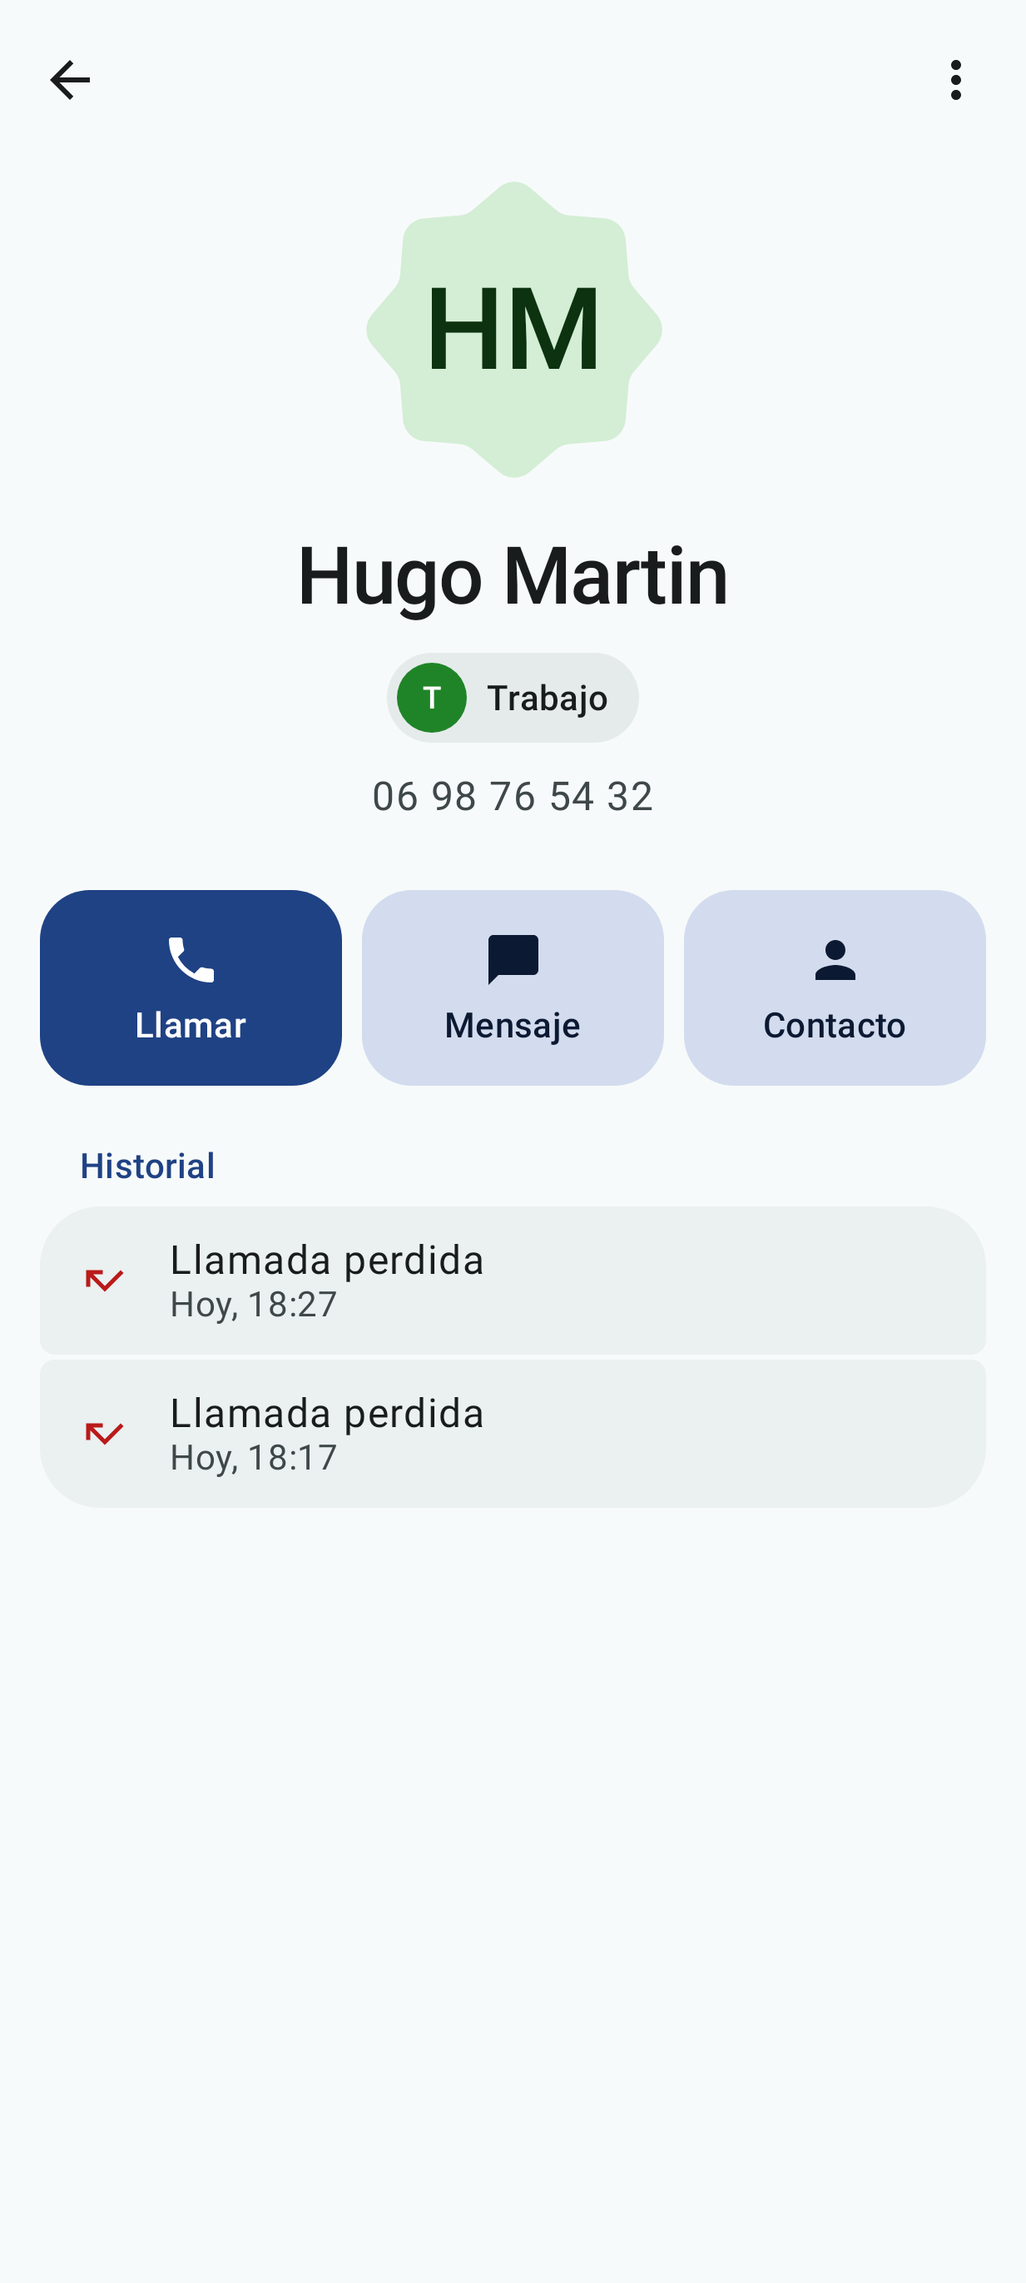
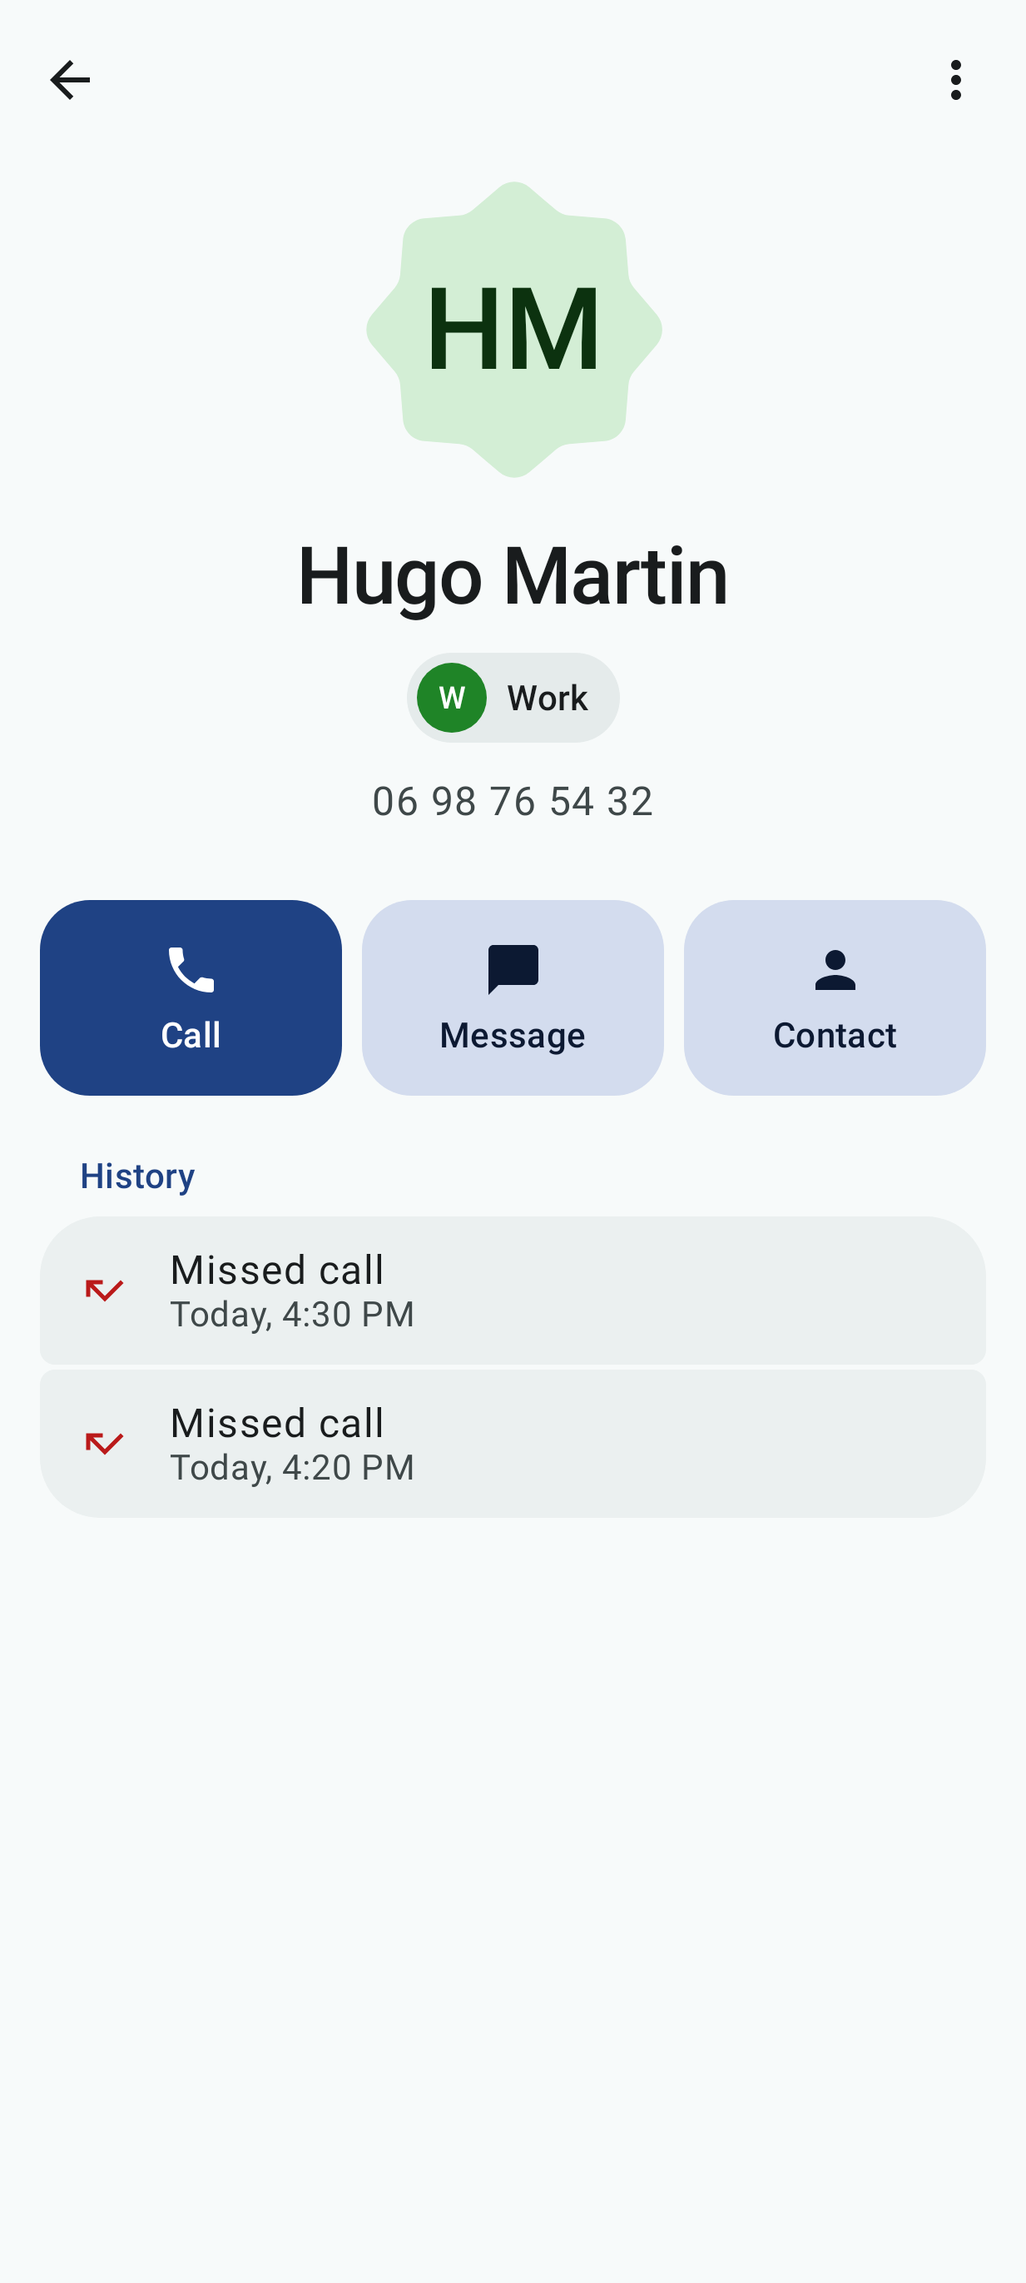
docs: what F-Droid actually carries, and screens in one language
The README said Seca Messages was not on F-Droid. It has been since
0.1.0-beta10, along with the other two, and the page that was meant to
say so was itself a month out of date: a merge request described as
reopened was merged, a reproducibility hash was from beta 6, and a
section listing what the second review still needed listed three things
that were all answered. The recipes under fdroid/metadata/ are now
copies of what fdroiddata carries rather than a snapshot from beta 9.

The reproducibility claim is checked again rather than repeated: all
three APKs f-droid.org serves for beta 10 hash the same as the ones
attached here, and the three hashes are written down.

The screenshots were drawn in Spanish, on an older settings page. Drawn
again in English, and the sample profiles stop being keyed by French
words, which is also why one image had a French name.

Beta 11 was tagged seventeen hours before its APKs went up and F-Droid's
build landed in that gap, so the order is written down: binaries first,
tag after.

Also: the keyboard's GIF key does nothing in a conversation, which is
#54 and the README now says so rather than leaving "GIFs that move" to
be read as more than it is.

diff --git a/apps/contacts/src/test/kotlin/com/seca/contacts/ScreenshotsTest.kt b/apps/contacts/src/test/kotlin/com/seca/contacts/ScreenshotsTest.kt
@@ -73,8 +73,8 @@ class ScreenshotsTest {
     }
 
     @Test
-    fun homeProfile() = shoot("contacts-home-famille") {
-        HomeScreen(sampleUi().copy(currentProfileId = "famille"), viewModel(), rememberLazyListState(), onOpenSibling = {})
+    fun homeProfile() = shoot("contacts-home-family") {
+        HomeScreen(sampleUi().copy(currentProfileId = "family"), viewModel(), rememberLazyListState(), onOpenSibling = {})
     }
 
     /** The launcher icon at the size app stores ask for. */
@@ -108,10 +108,10 @@ class ScreenshotsTest {
 
     private fun sampleUi(): ContactsUi {
         val names = listOf(
-            "Alice Garnier" to "principal", "Antoine Roux" to "travail", "Camille Durand" to "famille",
-            "Chloé Fontaine" to "sport", "Élodie Mercier" to "principal", "Hugo Martin" to "travail",
-            "Inès Moreau" to "travail", "Julien Lambert" to "sport", "Léa Petit" to "famille",
-            "Lucas Girard" to "principal", "Manon Chevalier" to "famille", "Nicolas Bernard" to "principal",
+            "Alice Garnier" to "principal", "Antoine Roux" to "work", "Camille Durand" to "family",
+            "Chloé Fontaine" to "sport", "Élodie Mercier" to "principal", "Hugo Martin" to "work",
+            "Inès Moreau" to "work", "Julien Lambert" to "sport", "Léa Petit" to "family",
+            "Lucas Girard" to "principal", "Manon Chevalier" to "family", "Nicolas Bernard" to "principal",
         )
         val contacts = names.mapIndexed { index, (name, _) ->
             SecaContact(
@@ -129,8 +129,8 @@ class ScreenshotsTest {
             contacts = contacts,
             profiles = listOf(
                 ProfileStore.Principal,
-                sampleProfile("famille"),
-                sampleProfile("travail"),
+                sampleProfile("family"),
+                sampleProfile("work"),
                 sampleProfile("sport"),
             ),
             currentProfileId = ProfileStore.ALL,
@@ -148,9 +148,10 @@ class ScreenshotsTest {
 internal fun sampleProfile(key: String): Profile = Profile(
     key,
     when (Locale.getDefault().language) {
-        "fr" -> mapOf("famille" to "Famille", "travail" to "Travail", "sport" to "Sport")
-        "es" -> mapOf("famille" to "Familia", "travail" to "Trabajo", "sport" to "Deporte")
-        "pl" -> mapOf("famille" to "Rodzina", "travail" to "Praca", "sport" to "Sport")
-        else -> mapOf("famille" to "Family", "travail" to "Work", "sport" to "Sport")
+        "fr" -> mapOf("family" to "Famille", "work" to "Travail", "sport" to "Sport")
+        "es" -> mapOf("family" to "Familia", "work" to "Trabajo", "sport" to "Deporte")
+        "pl" -> mapOf("family" to "Rodzina", "work" to "Praca", "sport" to "Sport")
+        "de" -> mapOf("family" to "Familie", "work" to "Arbeit", "sport" to "Sport")
+        else -> mapOf("family" to "Family", "work" to "Work", "sport" to "Sport")
     }.getValue(key),
 )

diff --git a/apps/phone/src/test/kotlin/com/seca/phone/ScreenshotsTest.kt b/apps/phone/src/test/kotlin/com/seca/phone/ScreenshotsTest.kt
@@ -124,8 +124,8 @@ class ScreenshotsTest {
     private fun sampleUi(): PhoneUi {
         val numbers = PhoneNumbers("FR")
         val profiles = SharedProfiles(
-            profiles = listOf(Profile.Principal, sampleProfile("famille"), sampleProfile("travail")),
-            assignments = mapOf("camille" to "famille", "lea" to "famille", "hugo" to "travail", "ines" to "travail"),
+            profiles = listOf(Profile.Principal, sampleProfile("family"), sampleProfile("work")),
+            assignments = mapOf("camille" to "family", "lea" to "family", "hugo" to "work", "ines" to "work"),
             connected = true,
         )
         val contacts = listOf(
@@ -156,7 +156,7 @@ class ScreenshotsTest {
             contacts = contacts,
             index = NumberIndex(contacts, numbers),
             profiles = profiles,
-            blockedProfiles = setOf("travail"),
+            blockedProfiles = setOf("work"),
         )
         val keyOf = { call: CallRecord -> if (call.presentation == Presentation.Allowed) numbers.key(call.number) else "hidden" }
         val groups = groupCalls(calls, keyOf, dayOf = { dayOf(it) }).map { CallGroup(it, base.matchOf(it.first())) }
@@ -173,9 +173,10 @@ class ScreenshotsTest {
 internal fun sampleProfile(key: String): Profile = Profile(
     key,
     when (Locale.getDefault().language) {
-        "fr" -> mapOf("famille" to "Famille", "travail" to "Travail", "sport" to "Sport")
-        "es" -> mapOf("famille" to "Familia", "travail" to "Trabajo", "sport" to "Deporte")
-        "pl" -> mapOf("famille" to "Rodzina", "travail" to "Praca", "sport" to "Sport")
-        else -> mapOf("famille" to "Family", "travail" to "Work", "sport" to "Sport")
+        "fr" -> mapOf("family" to "Famille", "work" to "Travail", "sport" to "Sport")
+        "es" -> mapOf("family" to "Familia", "work" to "Trabajo", "sport" to "Deporte")
+        "pl" -> mapOf("family" to "Rodzina", "work" to "Praca", "sport" to "Sport")
+        "de" -> mapOf("family" to "Familie", "work" to "Arbeit", "sport" to "Sport")
+        else -> mapOf("family" to "Family", "work" to "Work", "sport" to "Sport")
     }.getValue(key),
 )

diff --git a/apps/messages/src/test/kotlin/com/seca/messages/ScreenshotsTest.kt b/apps/messages/src/test/kotlin/com/seca/messages/ScreenshotsTest.kt
@@ -137,8 +137,8 @@ class ScreenshotsTest {
             contacts = contacts,
             index = NumberIndex(contacts, numbers),
             profiles = SharedProfiles(
-                profiles = listOf(Profile.Principal, sampleProfile("famille"), sampleProfile("travail")),
-                assignments = mapOf("camille" to "famille", "lea" to "famille", "hugo" to "travail"),
+                profiles = listOf(Profile.Principal, sampleProfile("family"), sampleProfile("work")),
+                assignments = mapOf("camille" to "family", "lea" to "family", "hugo" to "work"),
                 connected = true,
             ),
             conversations = listOf(
@@ -186,10 +186,11 @@ class ScreenshotsTest {
 internal fun sampleProfile(key: String): Profile = Profile(
     key,
     when (Locale.getDefault().language) {
-        "fr" -> mapOf("famille" to "Famille", "travail" to "Travail", "sport" to "Sport")
-        "es" -> mapOf("famille" to "Familia", "travail" to "Trabajo", "sport" to "Deporte")
-        "pl" -> mapOf("famille" to "Rodzina", "travail" to "Praca", "sport" to "Sport")
-        else -> mapOf("famille" to "Family", "travail" to "Work", "sport" to "Sport")
+        "fr" -> mapOf("family" to "Famille", "work" to "Travail", "sport" to "Sport")
+        "es" -> mapOf("family" to "Familia", "work" to "Trabajo", "sport" to "Deporte")
+        "pl" -> mapOf("family" to "Rodzina", "work" to "Praca", "sport" to "Sport")
+        "de" -> mapOf("family" to "Familie", "work" to "Arbeit", "sport" to "Sport")
+        else -> mapOf("family" to "Family", "work" to "Work", "sport" to "Sport")
     }.getValue(key),
 )
 

diff --git a/core/model/src/main/kotlin/com/seca/core/model/Profile.kt b/core/model/src/main/kotlin/com/seca/core/model/Profile.kt
@@ -1,6 +1,6 @@
 package com.seca.core.model
 
-/** A category of contacts, such as "Travail". Every contact belongs to exactly one. */
+/** A category of contacts, such as "Work". Every contact belongs to exactly one. */
 data class Profile(val id: String, val name: String) {
     companion object {
         /** Where contacts sit until they are put elsewhere; it cannot be renamed or deleted. */

diff --git a/docs/fdroid.md b/docs/fdroid.md
@@ -1,21 +1,31 @@
 # Publishing Seca on F-Droid
 
-Where each app stands, what this repository already satisfies, and the steps that need a
-person with an account somewhere.
+Where each app stands, what this repository has to keep satisfying for F-Droid to rebuild it,
+and what a new release has to do in what order.
 
 | App | F-Droid | IzzyOnDroid |
 |---|---|---|
-| Seca Contacts | **published**, reproducible: f-droid.org hands out the file published here | ready to request |
-| Seca Phone | **published**, reproducible | ready to request |
-| Seca Messages | merge request !49106 reopened at 0.1.0-beta8, with both native libraries built from source | ready to request |
+| Seca Contacts | **published** ([!49024](https://gitlab.com/fdroid/fdroiddata/-/merge_requests/49024)), reproducible | ready to request |
+| Seca Phone | **published** ([!49025](https://gitlab.com/fdroid/fdroiddata/-/merge_requests/49025)), reproducible | ready to request |
+| Seca Messages | **published** ([!49106](https://gitlab.com/fdroid/fdroiddata/-/merge_requests/49106)), reproducible, both native libraries built from source | ready to request |
 
-The reproducible build is not a claim: the APK f-droid.org serves for Seca Contacts has the
-same SHA-256 as the one attached to the GitHub release, `11f14bf8…` for 0.1.0-beta6. Their
-server rebuilt it, found the same bytes, and distributes ours with this project's signature.
+The reproducible build is not a claim. For 0.1.0-beta10, the APK f-droid.org serves has the
+same SHA-256 as the one attached to the GitHub release, for all three:
 
-Both published apps follow new tags by themselves (`AutoUpdateMode: Version`), so a release
-here reaches F-Droid without a merge request — as long as the APK published here stays
-reproducible, which means building it the way their server does. See below.
+```text
+46e0cdf43878edb8f0ce16a01f8acebd57bb2ead76dd68d64ef057fa8d190760  seca-contacts
+202f3e114bb13a9c6686e72aa89ca72d20368142ab4fa7c28ee0bf2485c9688d  seca-phone
+22cd33add05402d6f93c8af112586bb278080eb66e00a745e773f9e4b358baf9  seca-messages
+```
+
+Their server rebuilt each one, found the same bytes, and distributes ours with this project's
+signature.
+
+All three follow new tags by themselves (`AutoUpdateMode: Version`), so a release here reaches
+F-Droid without a merge request — as long as the APK published here stays reproducible, which
+means building it the way their server does. Their queue means F-Droid trails the release here
+by a few days, and `fdroid/metadata/` in this repository is a copy of what `fdroiddata` carries,
+not the other way round.
 
 ## Decisions taken
 
@@ -104,25 +114,26 @@ libraries for both ABIs, and F-Droid's own server rebuilt all three published AP
 them — `...successfully verified`. The whole procedure is: build in Linux, sign on Windows, attach
 to the GitHub release.
 
-## Seca Messages: the second review, and what it still needs
+## Seca Messages: what the second review asked for
 
 A second reviewer went through 0.1.0-beta6 in detail on 3 October, and the merge request was
-closed on 1 November for having had no answer in between. Reopening it needs three things, two
-of which are done here:
+closed on 1 November for having had no answer in between. It was reopened with the three points
+below answered, and merged: Seca Messages is published.
 
 1. **The licence had to agree with itself.** The metadata said AGPL-3.0-or-later, because the app
    links libsignal, while the repository said GPL. Seca Messages now carries its own
    `apps/messages/LICENSE`, the AGPL, and the README says which app is under which.
-2. **Picture messages are supported, both ways, as of beta 12.** This was the reviewer's
-   sharpest point and it no longer stands: as the default SMS app, Seca Messages is the only
-   app the phone hands a WAP push to, so for a while adopting it cost a user their picture
-   messages without a word. They arrive and are shown since beta 10. Sending was built in
-   beta 11 but no message reached anybody: the recipient's address was written the way the
-   sender's is, so the carrier accepted every message and had nowhere to send it, while the
-   sending phone showed it as sent. Fixed in beta 12, which is the first release where a
-   picture message actually arrives — a picture, a video, a file, a contact card or a voice message, through the
-   carrier. Group conversations over MMS are still to come, and the listing says so rather
-   than claiming otherwise.
+2. **Picture messages are supported, both ways.** This was the reviewer's sharpest point. As the
+   default SMS app, Seca Messages is the only app the phone hands a WAP push to, so for a while
+   adopting it cost a user their picture messages without a word. They arrive and are shown
+   since beta 10. Sending was built in beta 11 but no message reached anybody: the recipient's
+   address was written the way the sender's is, so the carrier accepted every message and had
+   nowhere to send it, while the sending phone showed it as sent. Fixed in beta 12, the first
+   release where a picture, a video, a file, a contact card or a voice message actually arrives
+   through the carrier. Beta 13 fixed the other half: a part that names its type in plain words,
+   which is the form Seca's own composer writes, made the reader give up, so a picture sent by
+   Seca was stored by Seca with no parts at all. Group conversations over MMS are still to come,
+   and the listing says so rather than claiming otherwise.
 3. **secp256k1 was a prebuilt binary, and is not any more.**
    `fr.acinq.secp256k1:secp256k1-kmp-jni-android` ships `libsecp256k1-jni.so`, which F-Droid does
    not accept any more than libsignal's. The recipe builds it from the `Secp256k1Kmp` srclib, the
@@ -144,26 +155,29 @@ build id and of any absolute path. `strings -a` and `readelf -n` over `lib/*/*.s
 empty for `/home/`, `/opt/`, `/builds/` and `Build ID` on the two libraries built here. The three
 AndroidX libraries keep their build ids, which is harmless: both sides download the same file.
 
-## Steps that need an account
+## Publishing a new version
 
 ### F-Droid
 
-The three merge requests are open against <https://gitlab.com/fdroid/fdroiddata>, one per app,
-each on its own branch in a fork, and each carrying the metadata file from `fdroid/metadata/`.
-Seca Messages also carries `fdroid/srclibs/libsignal.yml` as `srclibs/libsignal.yml`.
+The three merge requests against <https://gitlab.com/fdroid/fdroiddata> are merged, so nothing
+needs an account any more: their bot opens the merge request for each new tag by itself, and the
+recipes in `fdroid/metadata/` are kept here only as a copy of what it maintains there.
 
-To publish a new version: update `versionName`, `versionCode`, `commit` (the full hash),
-`CurrentVersion` and `CurrentVersionCode` in each file, and open one merge request per app —
-or let `AutoUpdateMode: Version` do it once the apps are published.
+**Attach the APKs to the GitHub release before pushing the tag, not after.** `Binaries:` points
+at a file named after the tag, and their build runs as soon as the tag exists. Beta 11 was tagged
+seventeen hours before its APKs went up, their build landed in that window with nothing to fetch,
+and someone opened [issue #45](https://github.com/arditore/Seca/issues/45) about it.
 
-**While a merge request is still waiting**, a new release goes into that same merge request, not
-into a new one: push the updated recipe to its branch. Their reviewer asked for exactly that, and
-a recipe left pointing at an older commit would have them test a version nobody runs any more.
-Their queue is long, so expect the wait to be measured in weeks.
+Should a recipe ever need changing by hand, the three fields that move are `versionName`,
+`versionCode` and `commit` (the full hash, never the tag name), plus `CurrentVersion` and
+`CurrentVersionCode`. While a merge request is waiting, a new release goes into that same merge
+request rather than a new one: push the updated recipe to its branch. Their reviewer asked for
+exactly that, and a recipe left pointing at an older commit would have them test a version
+nobody runs any more.
 
-### IzzyOnDroid, for the three apps
+### IzzyOnDroid, not asked for yet
 
-Requirements already met: APKs signed with the release key, attached to the latest GitHub release,
+This one still needs an account and a request, for all three apps. Requirements already met: APKs signed with the release key, attached to the latest GitHub release,
 under 30 MB, no debuggable or testOnly flag, fastlane metadata in the repository.
 
 Open a request at <https://codeberg.org/IzzyOnDroid/repo/issues> with the link to

diff --git a/README.md b/README.md
@@ -91,7 +91,8 @@ backup. And, between Seca phones, Seca Link.
 
 From any of the three, a **suite backup** gathers contacts and profiles, call
 history and filtering, texts, conversations and settings into one encrypted
-file, to carry to a new phone.
+file, to carry to a new phone. Point it at a folder and it writes itself in the
+small hours, every day or every week, keeping as many as you ask it to.
 
 ## 🖼 Screens
 
@@ -99,7 +100,7 @@ file, to carry to a new phone.
 
 | One profile at a time | The dialer | Who called |
 |---|---|---|
-| <img src="docs/screenshots/contacts-home-famille.png" width="240"> | <img src="docs/screenshots/phone-dialer.png" width="240"> | <img src="docs/screenshots/phone-call-detail.png" width="240"> |
+| <img src="docs/screenshots/contacts-home-family.png" width="240"> | <img src="docs/screenshots/phone-dialer.png" width="240"> | <img src="docs/screenshots/phone-call-detail.png" width="240"> |
 
 | A conversation | Phone, settings | Messages, settings |
 |---|---|---|
@@ -196,10 +197,11 @@ Seca is **in beta**.
 
 | | Seca Contacts | Seca Phone | Seca Messages |
 |---|---|---|---|
-| F-Droid | [published](https://f-droid.org/packages/com.seca.contacts/) | [published](https://f-droid.org/packages/com.seca.phone/) | [not yet](docs/fdroid.md) |
+| F-Droid | [published](https://f-droid.org/packages/com.seca.contacts/) | [published](https://f-droid.org/packages/com.seca.phone/) | [published](https://f-droid.org/packages/com.seca.messages/) |
 | GitHub | [latest release](https://github.com/arditore/Seca/releases/latest) | [latest release](https://github.com/arditore/Seca/releases/latest) | [latest release](https://github.com/arditore/Seca/releases/latest) |
 
-The state of the F-Droid submissions is in [docs/fdroid.md](docs/fdroid.md).
+F-Droid rebuilds each tag itself, so its copy trails the release here by a few
+days. How that works is in [docs/fdroid.md](docs/fdroid.md).
 
 After installing, choose Seca Phone as the Phone app and Seca Messages as the
 SMS app, in Android's default-apps settings. The three install in any order and
@@ -236,6 +238,9 @@ explains them brand by brand.
 - **No profiles backed by address books, yet.** Profiles are assigned by hand;
   deriving them from the DAVx⁵ account a contact syncs from is
   [issue #44](https://github.com/arditore/Seca/issues/44).
+- **No GIF button on the keyboard, yet.** A GIF picked from the gallery sends,
+  and one that arrives plays, but the keyboard's own GIF key is not listened
+  for: [issue #54](https://github.com/arditore/Seca/issues/54).
 
 ## 🧱 Build
 
